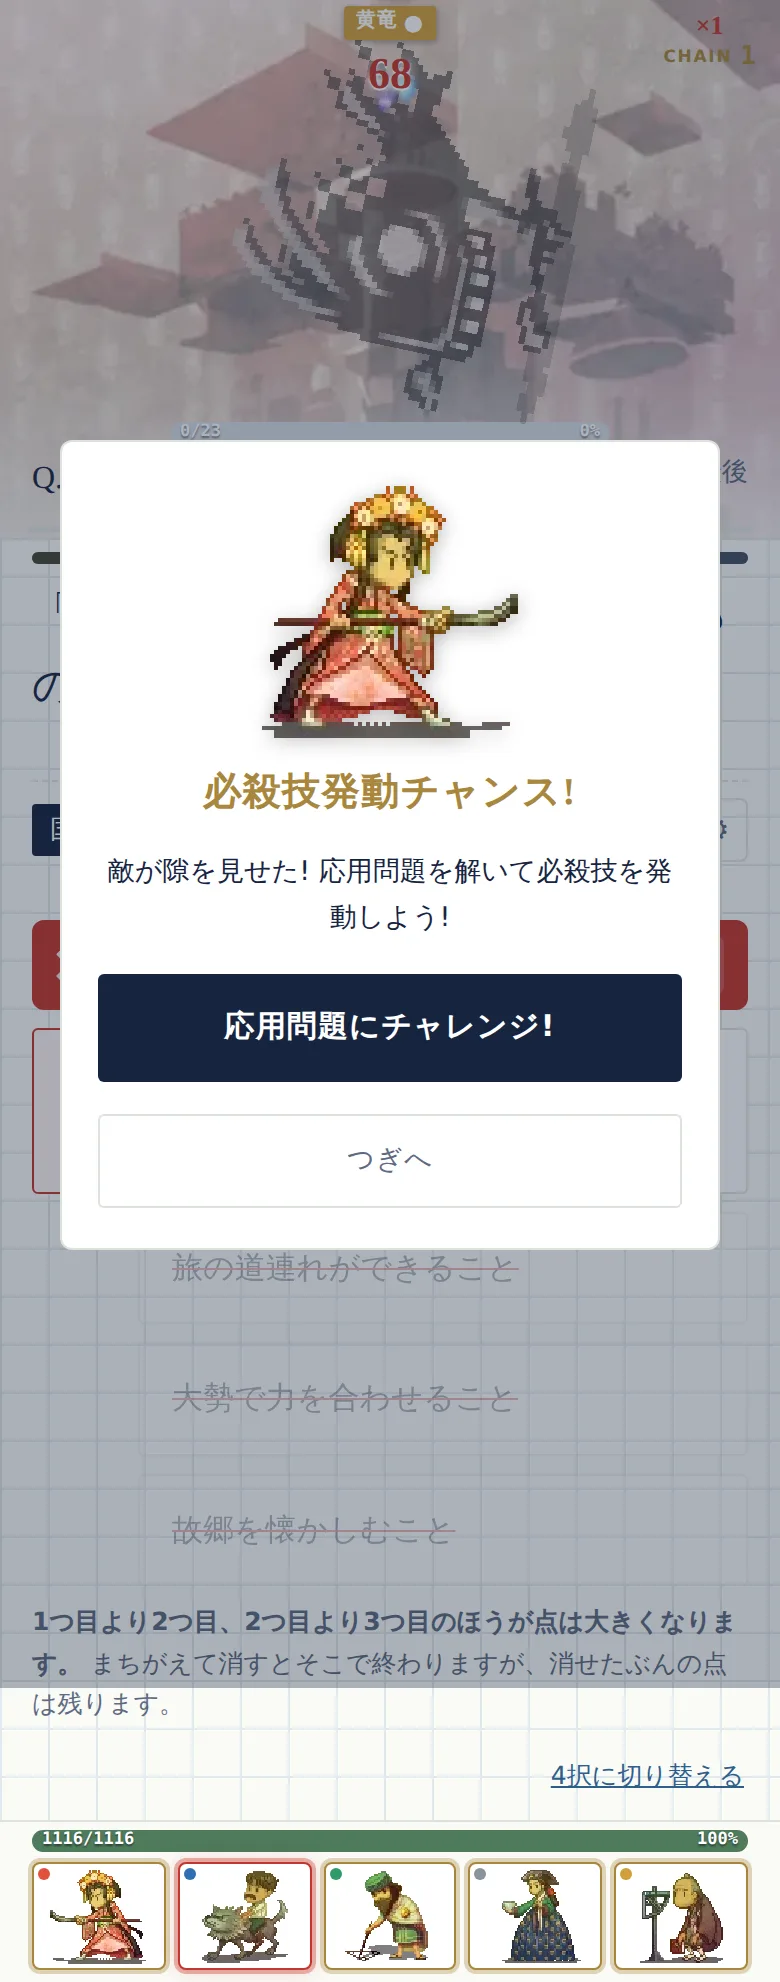
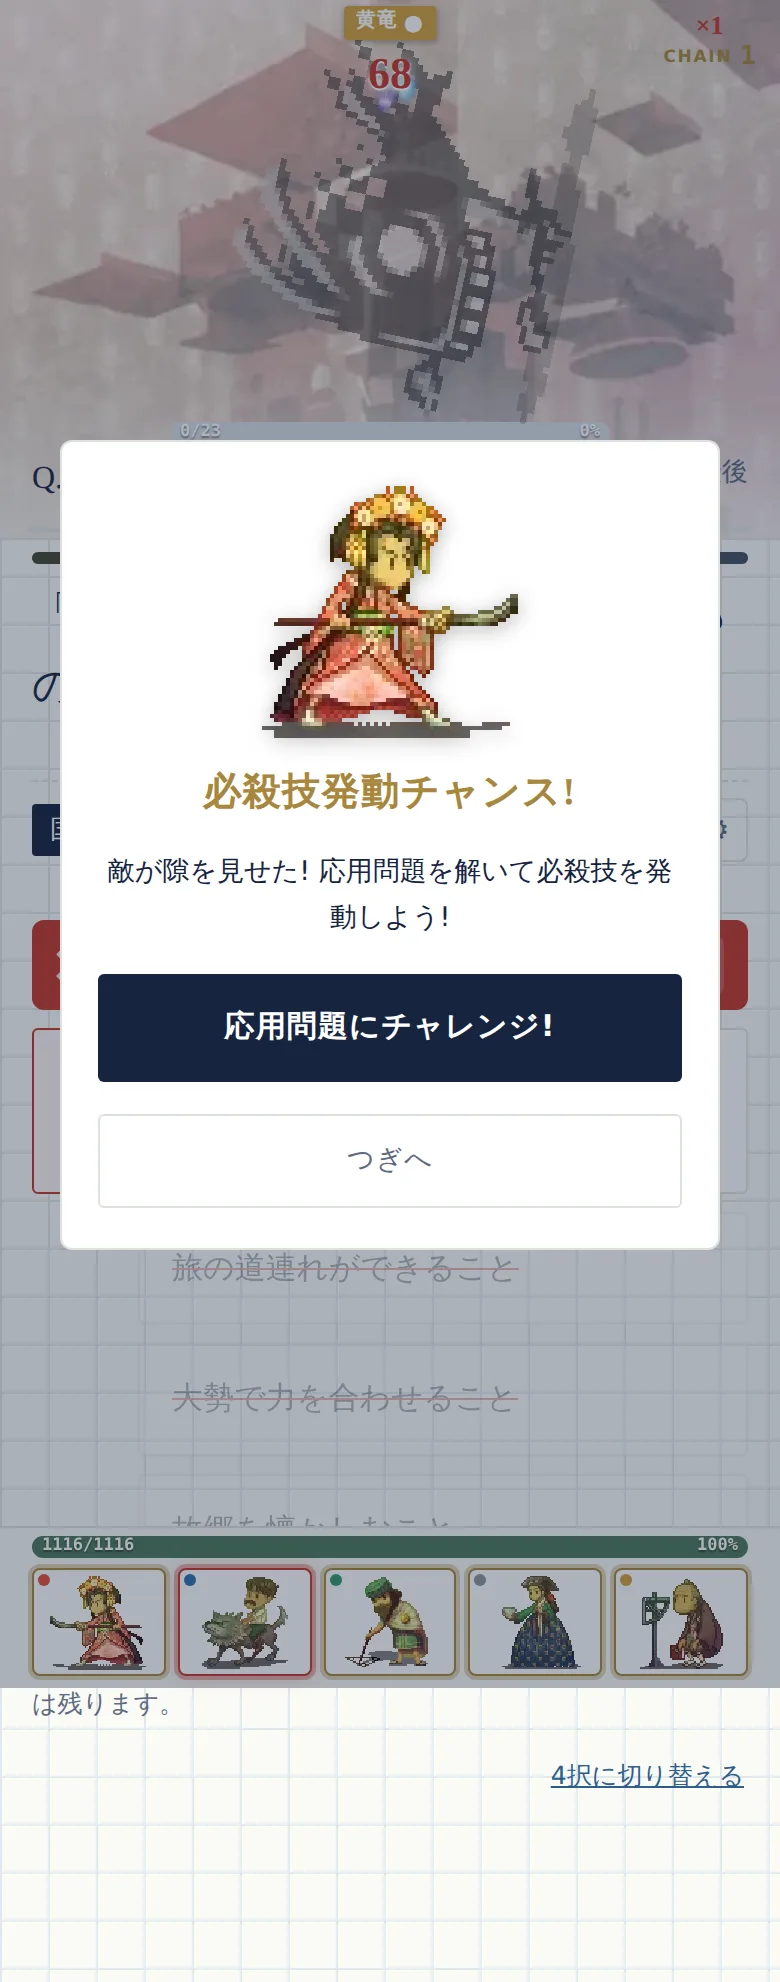
スワイプにもバトルの帯を出し、デッキ行を画面の下に貼り付ける
実機で見つかった2つ。どちらも docs/screens/ の絵では気づけなかった。

## スワイプにバトルの帯が無かった

スワイプだけ独自の画面（ヘッダ＋カード）のままで、8問のあいだ敵もチェインも
デッキも画面から消えていた。出題の画面と同じ帯立てにそろえ、
battleBandHTML() を両方から呼ぶようにした。

写真に高さが要るので、スワイプのバトルの帯だけ 25dvh・敵 128px に詰めてある
（出題の画面は 32dvh・192px）。カードは 30dvh で頭打ち。
390×844 にちょうど収まる（844px）。

## 消去法でヒーローが見えなかった

デッキ行は文書のいちばん下に置いてあったので、解答の長い方式ではそのまま
画面の外だった（消去法は 965px）。position:sticky で画面の下に貼り付けた。
パーティは戦いのUIなので、答えているあいだは必ず見えているようにする。

## ついでに

BOSS の札が属性の札の裏に隠れていた（どちらも絵の上の中央）。右上へ移した。

## 検査

touch-check に3項目（スワイプにもバトルの帯が出る／消去法とスワイプの両方で
デッキ行が画面の中にあり顔が5つ並ぶ）。検査の下ごしらえでも startBattle() を
呼ぶようにして、デッキ行まで含めて見るようにした。

validate / smoke / touch-check(45) / shots(37) すべて通過。

Claude-Session: https://claude.ai/code/session_01HQarYNyuWkC6NYJVcfcKzq

Changed region(s): [[0.0308, 0.7694, 0.9846, 0.8618], [0.0308, 0.9233, 0.9846, 1.0]]

diff --git a/src/views.js b/src/views.js
@@ -1333,6 +1333,30 @@ function deckRow() {
   </div>`;
 }
 
+/**
+ * **バトルの帯**（画面のいちばん上・全体の32%）。
+ *
+ * 背景・敵・チェイン・Q.◯／あと◯問・3つの束の帯が入ります。
+ * **出題の画面とスワイプで同じものを使います** —— スワイプだけ帯が無いと、
+ * 8問のあいだ戦いが画面から消えます（実際に消えていました）。
+ */
+function battleBandHTML(q) {
+  const w = waveAt(S.run.i);
+  const bg = DB.subjectArt[q.subject]?.bg || DB.defaultBg;
+  return `
+    <div class="qz-battle" style="background-image:url('${assetPath.bg(bg)}')">
+      <i class="qz-shade"></i>
+      ${battleStage()}
+      <div class="bt-count">
+        <span class="bt-q">Q.${w.at + 1}</span>
+        <span class="bt-left">${w.size - w.at - 1 > 0 ? `あと${w.size - w.at - 1}問` : "この束の最後"}</span>
+      </div>
+      <!-- **3つの束と進み具合。** Q.1／あと3問 は「いまの束の中」の話なので、
+           セッション全体のどこにいるかは、この帯でしか分かりません -->
+      <div class="bt-plan">${planStrip()}</div>
+    </div>`;
+}
+
 /* ---------- スペシャルスキル（装備したエクステンションの Active Skill） ---------- */
 
 /**
@@ -1567,7 +1591,6 @@ function vQuiz() {
   const mode = modeOf(q);
   // スワイプは画面ごと別。束で出るので、ふつうのセッションの途中にも現れる
   if (mode === "swipe") return vSwipe();
-  const place = q.country ? `<b>${esc(q.country)}</b>` : `日本 <b>${esc(q.gradeLabel)}</b>`;
   /**
    * **初回起動は、問題と解答だけにします**（決定1）。
    *
@@ -1597,8 +1620,6 @@ function vQuiz() {
    *
    * 初回起動（決定1）はこの帯立てに乗せません——問題と解答だけにするためです。
    */
-  const w = waveAt(S.run.i);
-  const bg = DB.subjectArt[q.subject]?.bg || DB.defaultBg;
   const tall = mode === "panel" || mode === "numeric";
 
   /* 設問の帯。**補足（教科・単元・段・ヒント・⚙）は問題文の下**に置きます */
@@ -1682,17 +1703,7 @@ function vQuiz() {
   <div class="pad intro">${askHTML}${ansHTML}</div>
   ${modals}` : `
   <div class="qz${tall ? " tall" : ""}">
-    <div class="qz-battle" style="background-image:url('${assetPath.bg(bg)}')">
-      <i class="qz-shade"></i>
-      ${battleStage()}
-      <div class="bt-count">
-        <span class="bt-q">Q.${w.at + 1}</span>
-        <span class="bt-left">${w.size - w.at - 1 > 0 ? `あと${w.size - w.at - 1}問` : "この束の最後"}</span>
-      </div>
-      <!-- **3つの束と進み具合。** Q.1／あと3問 は「いまの束の中」の話なので、
-           セッション全体のどこにいるかは、この帯でしか分かりません -->
-      <div class="bt-plan">${planStrip()}</div>
-    </div>
+    ${battleBandHTML(q)}
     ${timeBarHTML(mode)}
     <div class="qz-ask">${askHTML}</div>
     <div class="qz-ans">${ansHTML}</div>
@@ -2692,33 +2703,38 @@ function vSwipe() {
   if (S.run.i >= S.run.ids.length) return go("result");
   const q = currentQ();
   const p = DB.photos?.[q.image];
-  const place = q.country ? `<b>${esc(q.country)}</b>` : `日本 <b>${esc(q.gradeLabel)}</b>`;
 
+  /* **スワイプも出題の画面と同じ帯立てです。** ここだけ帯が無いと、
+     8問のあいだ戦いが画面から消えます（実際に消えていました）。
+     **写真に高さが要るので、バトルの帯だけ少し詰めます**（`.qz.swipe`） */
   app.innerHTML = `
-  <header><div class="hbar">
-    <div class="place">${place} ・ ${esc(q.subject)}</div>
-    <div class="score">${S.run.i + 1} / ${S.run.ids.length}</div></div>
-    ${planStrip()}${timeBarHTML("swipe")}</header>
-  <div class="pad swp">
-    <div class="qmeta"><span class="grade ${q.newCurriculum ? "alt" : ""}">${esc(q.gradeLabel)}</span>
-      <span class="unit">${esc(q.unit)}</span>${levelChip(q, "swipe")}</div>
-    <div class="swp-q">${esc(q.prompt)}</div>
-    <div class="swp-picks">
-      <button class="swp-pick l" data-s="0"><i aria-hidden="true">←</i>
-        <span>${esc(q.choices[0])}</span></button>
-      <button class="swp-pick r" data-s="1"><span>${esc(q.choices[1])}</span>
-        <i aria-hidden="true">→</i></button>
+  <div class="qz swipe">
+    ${battleBandHTML(q)}
+    ${timeBarHTML("swipe")}
+    <div class="qz-ask">
+      <div class="swp-q">${esc(q.prompt)}</div>
+      <div class="qmeta"><span class="grade ${q.newCurriculum ? "alt" : ""}">${esc(q.gradeLabel)}</span>
+        <span class="unit">${esc(q.unit)}</span>${levelChip(q, "swipe")}</div>
     </div>
-    <div class="swp-stage">
-      <div class="swp-card" id="swpcard" tabindex="0"
-        role="group" aria-label="${esc(q.prompt)}">
-        ${p && p.file ? `<img src="${assetPath.photo(p.file)}" alt="${esc(q.alt || "")}"
-          ${p.width ? `width="${p.width}" height="${p.height}"` : ""} draggable="false">` : ""}
-        <div class="swp-seal" id="swpseal" aria-live="polite"></div>
+    <div class="qz-ans swp">
+      <div class="swp-picks">
+        <button class="swp-pick l" data-s="0"><i aria-hidden="true">←</i>
+          <span>${esc(q.choices[0])}</span></button>
+        <button class="swp-pick r" data-s="1"><span>${esc(q.choices[1])}</span>
+          <i aria-hidden="true">→</i></button>
       </div>
+      <div class="swp-stage">
+        <div class="swp-card" id="swpcard" tabindex="0"
+          role="group" aria-label="${esc(q.prompt)}">
+          ${p && p.file ? `<img src="${assetPath.photo(p.file)}" alt="${esc(q.alt || "")}"
+            ${p.width ? `width="${p.width}" height="${p.height}"` : ""} draggable="false">` : ""}
+          <div class="swp-seal" id="swpseal" aria-live="polite"></div>
+        </div>
+      </div>
+      <p class="swp-cred" id="swpcred">${p ? creditLine(p, !titleFree(p)) : ""}</p>
+      <p class="fine swp-how">カードを、正しいと思うほうへはらう。左右のボタンや矢印キーでも答えられます。</p>
     </div>
-    <p class="swp-cred" id="swpcred">${p ? creditLine(p, !titleFree(p)) : ""}</p>
-    <p class="fine swp-how">カードを、正しいと思うほうへはらう。左右のボタンや矢印キーでも答えられます。</p>
+    ${deckRow()}
   </div>`;
 
   wireSwipe(q);

diff --git a/docs/screens/index.html b/docs/screens/index.html
@@ -27,7 +27,7 @@ figcaption{padding:10px 13px 13px}
 @media (max-width:480px){main{padding:14px;gap:14px}}
 </style></head><body>
 <header><h1>画面の一覧 ・ 37 / 37 枚</h1>
-<p>2026-09-23 07:36 に <code>npm run shots</code> で撮ったもの。幅 390px（iPhone相当）の実機ブラウザーです。
+<p>2026-09-23 07:52 に <code>npm run shots</code> で撮ったもの。幅 390px（iPhone相当）の実機ブラウザーです。
 絵を押すと原寸で開きます。<b>「S-06 の帯が…」のようにIDで指してください。</b>
 出題の画面には、撮ったときの設問IDも出しています。
 実機で見ているときは、URLの末尾に <code>#review</code> を付けると画面の隅に同じ番号が出ます。</p></header>
@@ -78,7 +78,7 @@ figcaption{padding:10px 13px 13px}
     <p class="nm">出題・消去法</p>
     <p class="nt">朱の帯。誤っているものを3つ消す</p>
     <p class="qid">設問 <b>gaikokugo-001</b></p>
-    <p class="sz">780×1930 ・ 84KB</p>
+    <p class="sz">780×1930 ・ 70KB</p>
   </figcaption></figure>
 <figure class="">
   <div class="shot"><a href="S-07.webp" target="_blank" rel="noopener"><img src="S-07.webp" alt="出題・文字パネル" loading="lazy"></a></div>
@@ -86,7 +86,7 @@ figcaption{padding:10px 13px 13px}
     <p class="nm">出題・文字パネル</p>
     <p class="nt">3×3／4×4 をなぞって読みを作る</p>
     <p class="qid">設問 <b>gaikokugo-003</b></p>
-    <p class="sz">780×1916 ・ 68KB</p>
+    <p class="sz">780×1916 ・ 64KB</p>
   </figcaption></figure>
 <figure class="">
   <div class="shot"><a href="S-08.webp" target="_blank" rel="noopener"><img src="S-08.webp" alt="出題・数値入力" loading="lazy"></a></div>
@@ -94,7 +94,7 @@ figcaption{padding:10px 13px 13px}
     <p class="nm">出題・数値入力</p>
     <p class="nt">テンキー。単位は固定表示</p>
     <p class="qid">設問 <b>joho-002</b></p>
-    <p class="sz">780×1688 ・ 58KB</p>
+    <p class="sz">780×1688 ・ 57KB</p>
   </figcaption></figure>
 <figure class="">
   <div class="shot"><a href="S-09.webp" target="_blank" rel="noopener"><img src="S-09.webp" alt="出題・レンジ" loading="lazy"></a></div>
@@ -110,7 +110,7 @@ figcaption{padding:10px 13px 13px}
     <p class="nm">出題・スワイプ</p>
     <p class="nt">カードを正しいと思うほうへはらう</p>
     <p class="qid">設問 <b>gaikokugo-082</b></p>
-    <p class="sz">780×1688 ・ 59KB</p>
+    <p class="sz">780×1688 ・ 74KB</p>
   </figcaption></figure>
 <figure class="">
   <div class="shot"><a href="S-11.webp" target="_blank" rel="noopener"><img src="S-11.webp" alt="解説（バトルなし）" loading="lazy"></a></div>
@@ -230,7 +230,7 @@ figcaption{padding:10px 13px 13px}
     <p class="nm">出題を選ぶ・教科を選んだあと</p>
     <p class="nt">形式3つとエネミーが出て、背景がその教科の絵に変わる</p>
     
-    <p class="sz">780×1688 ・ 68KB</p>
+    <p class="sz">780×1688 ・ 70KB</p>
   </figcaption></figure>
 <figure class="">
   <div class="shot"><a href="S-26.webp" target="_blank" rel="noopener"><img src="S-26.webp" alt="出題・答えたあと（バトル）" loading="lazy"></a></div>
@@ -238,7 +238,7 @@ figcaption{padding:10px 13px 13px}
     <p class="nm">出題・答えたあと（バトル）</p>
     <p class="nt">正解すると敵が削れる。倒れた敵は伏せる</p>
     <p class="qid">設問 <b>kokugo-002</b></p>
-    <p class="sz">780×3040 ・ 137KB</p>
+    <p class="sz">780×3040 ・ 136KB</p>
   </figcaption></figure>
 <figure class="">
   <div class="shot"><a href="S-27.webp" target="_blank" rel="noopener"><img src="S-27.webp" alt="ヒント（ポップアップ）" loading="lazy"></a></div>
@@ -246,7 +246,7 @@ figcaption{padding:10px 13px 13px}
     <p class="nm">ヒント（ポップアップ）</p>
     <p class="nt">元の画面は動かない。もう一段でだけ本数が増える</p>
     <p class="qid">設問 <b>gaikokugo-001</b></p>
-    <p class="sz">780×1930 ・ 64KB</p>
+    <p class="sz">780×1930 ・ 52KB</p>
   </figcaption></figure>
 <figure class="">
   <div class="shot"><a href="S-28.webp" target="_blank" rel="noopener"><img src="S-28.webp" alt="設定（ポップアップ）" loading="lazy"></a></div>
@@ -254,7 +254,7 @@ figcaption{padding:10px 13px 13px}
     <p class="nm">設定（ポップアップ）</p>
     <p class="nt">正解した問題の解説を見るかどうか</p>
     <p class="qid">設問 <b>gaikokugo-001</b></p>
-    <p class="sz">780×1930 ・ 66KB</p>
+    <p class="sz">780×1930 ・ 54KB</p>
   </figcaption></figure>
 <figure class="">
   <div class="shot"><a href="S-29.webp" target="_blank" rel="noopener"><img src="S-29.webp" alt="Wave開始（接敵）" loading="lazy"></a></div>
@@ -270,7 +270,7 @@ figcaption{padding:10px 13px 13px}
     <p class="nm">Wave終了（戦果）</p>
     <p class="nt">撃破！／逃げられた……と、その束ぶんの成績と報酬</p>
     
-    <p class="sz">780×1688 ・ 59KB</p>
+    <p class="sz">780×1688 ・ 60KB</p>
   </figcaption></figure>
 <figure class="">
   <div class="shot"><a href="S-31.webp" target="_blank" rel="noopener"><img src="S-31.webp" alt="何年生から始める?" loading="lazy"></a></div>
@@ -286,7 +286,7 @@ figcaption{padding:10px 13px 13px}
     <p class="nm">必殺技発動チャンス</p>
     <p class="nt">解説を省いていても、隙を見せた問題では応用編に挑める</p>
     <p class="qid">設問 <b>kokugo-002</b></p>
-    <p class="sz">780×1982 ・ 83KB</p>
+    <p class="sz">780×1982 ・ 71KB</p>
   </figcaption></figure>
 <figure class="">
   <div class="shot"><a href="S-33.webp" target="_blank" rel="noopener"><img src="S-33.webp" alt="必殺技のカットイン" loading="lazy"></a></div>
@@ -294,7 +294,7 @@ figcaption{padding:10px 13px 13px}
     <p class="nm">必殺技のカットイン</p>
     <p class="nt">応用編を抜けると出る。MCH のパッシブスキル演出を写したもの</p>
     <p class="qid">設問 <b>kokugo-002</b></p>
-    <p class="sz">780×1688 ・ 74KB</p>
+    <p class="sz">780×1688 ・ 77KB</p>
   </figcaption></figure>
 <figure class="">
   <div class="shot"><a href="S-34.webp" target="_blank" rel="noopener"><img src="S-34.webp" alt="スペシャルスキルを撃つ" loading="lazy"></a></div>

diff --git a/src/styles.css b/src/styles.css
@@ -748,6 +748,10 @@
   .swp-card.thrown{opacity:.45}
   .swp-card img{display:block;width:100%;height:auto;max-height:46vh;object-fit:contain;
     user-select:none;-webkit-user-drag:none}
+  /* **帯立ての中では、カードは残りの高さに合わせます。**
+     46vh のままだと、バトルの帯とデッキ行のぶんだけ下へはみ出します */
+  .qz.swipe .swp-card img{max-height:30dvh}
+  .qz.swipe .swp-how{margin-top:6px}
   .swp-card:focus-visible{outline:2px solid var(--ai);outline-offset:2px}
 
   /* ○✕ はカードの上に大きく出す。**マルバツは必ず出す** */
@@ -969,6 +973,12 @@
      **指でなぞれないマスができます**（実際に3問できました）。図版の大きい問題では
      設問の帯のほうをスクロールさせて、解答の位置を動かしません */
   .qz.tall .qz-ask{max-height:26dvh;overflow-y:auto;justify-content:flex-start}
+  /* **スワイプは写真が主役です。** バトルの帯を少し詰めて、カードに高さを回します */
+  .qz.swipe .qz-battle{flex-basis:25dvh;min-height:170px}
+  .qz.swipe .bt-ch{width:128px;height:128px}
+  .qz-ans.swp{padding-top:0}
+  .qz.swipe .swp-q{margin:0 0 8px}
+  .qz.swipe .qmeta{margin:0}
   .qz-shade{position:absolute;inset:0;background:linear-gradient(
     rgba(255,255,255,.34),rgba(255,255,255,.34) 62%,rgba(251,251,247,.84))}
   .qz-battle > *:not(.qz-shade){position:relative;z-index:1}
@@ -1231,9 +1241,11 @@
      （実際に頭が切れました）。行として積むと、そのぶん高さを食います */
   .bt-stage .bt-side.foe .fac{position:absolute;left:50%;top:-13px;transform:translateX(-50%);
     z-index:1;box-shadow:0 1px 3px rgba(0,0,0,.3)}
-  .bt-boss{position:absolute;left:50%;top:-4px;transform:translateX(-50%);
+  /* **属性の札と重ねないでください。** どちらも絵の上の中央に置いたら、
+     BOSS が青龍の札の裏に隠れました（実機で見つかりました） */
+  .bt-boss{position:absolute;right:6px;top:-13px;
     font:700 9px/1 var(--gothic);letter-spacing:.14em;color:#fff;background:var(--pen);
-    padding:2px 5px;border-radius:2px}
+    padding:3px 5px;border-radius:2px;z-index:2}
   .bt-dmg{position:absolute;left:50%;top:10px;transform:translateX(-50%);
     font:700 22px/1 var(--mincho);color:var(--pen);text-shadow:0 1px 0 #fff,0 0 6px #fff;
     animation:dmgPop .5s ease-out}
@@ -1244,8 +1256,14 @@
   .bt-stage .bt-side.foe{flex:1;max-width:220px;margin:0 auto}
 
   /* デッキ5枚とパーティHP。**画面のいちばん下**。左が先で、右ほどASが落ちる */
-  .bt-deck{flex:0 0 auto;max-width:560px;width:100%;margin:0 auto;padding:4px 16px 6px;
-    border-top:1px solid var(--line);background:var(--paper)}
+  /* **デッキ行は画面の下に貼り付けます**（`position:sticky`）。
+     消去法のように解答が長い方式では、**ヒーローが画面の外に出て見えません**
+     でした（実機で指摘されました）。パーティは戦いのUIなので、答えている
+     あいだは必ず見えているようにします */
+  .bt-deck{position:sticky;bottom:0;z-index:5;
+    flex:0 0 auto;max-width:560px;width:100%;margin:0 auto;padding:4px 16px 6px;
+    border-top:1px solid var(--line);background:rgba(251,251,247,.96);
+    backdrop-filter:blur(4px)}
   .bt-deck.down{opacity:.6}
   /* **パーティの数字もバーの中へ。** 行を1つ減らすと、そのぶん解答が広がります */
   .bt-party{position:relative;margin-bottom:5px}

diff --git a/docs/wiz-redesign-screens.md b/docs/wiz-redesign-screens.md
@@ -75,6 +75,12 @@ S体系（詰める）から変わる点なので、`scripts/screens.mjs` 側に
 | **解答** | 40% | **38%** |
 | **パーティHPとデッキ5枚** | 5%（戻る／▶▶▶） | **10%** |
 
+**デッキ行は画面の下に貼り付けます**（`position:sticky`）。消去法のように解答が
+長い方式では、下に置いただけだと**ヒーローが画面の外に出て見えません**でした
+（実機で指摘されました）。パーティは戦いのUIなので、答えているあいだは必ず
+見えているようにします。`npm run touch-check` が、消去法とスワイプの両方で
+**デッキ行が画面の中にあるか**を見ています。
+
 **バトルが黒ウィズより 5pt 小さいのは、デッキ行があるからです。**
 黒ウィズは出題中に精霊を出しません（攻撃の演出のときだけ出ます）。
 ここは**5枚の並び順がそのままルール**なので、答えているあいだも見えている
@@ -543,7 +549,7 @@ W-05 で1度だけ呼び、その結果（`S.select.run`）をそのまま渡し
 |---|---|---|---|
 | **W-24 数値入力** | 19秒 | デッキ行を7%に畳む（テンキーの高さ） | 単位は固定表示・**外しても問題は終わらない**・「このまま挑み直す」に専用ボタンを置かない |
 | **W-25 レンジ** | 19秒 | — | **答える前に点数の見込みを出さない**（許容幅から年が逆算できる） |
-| **W-26 スワイプ** | **8秒** | 持ち時間バーがいちばん速く減る。**束8問が黒ウィズのテンポそのもの** | 途中に解説もヒントも挟まない・○✕だけ出して0.9秒で次へ・解説はセッション終わりの「ふりかえり」・**踏み切る前（56px未満）で放せば戻る** |
+| **W-26 スワイプ** | **8秒** | 持ち時間バーがいちばん速く減る。**束8問が黒ウィズのテンポそのもの**。**バトルの帯は出題の画面と同じもの**（ここだけ無いと、8問のあいだ戦いが画面から消えます）。写真に高さが要るので帯だけ 25dvh に詰め、敵は 128px | 途中に解説もヒントも挟まない・○✕だけ出して0.9秒で次へ・解説はセッション終わりの「ふりかえり」・**踏み切る前（56px未満）で放せば戻る** |
 
 **スワイプの8秒は、この game でいちばん黒ウィズに近い手ざわりになります。**
 1問1秒台で抜けると EXCELLENT が続き、チェインが伸び、5体ぶんのASが毎問乗ります。
